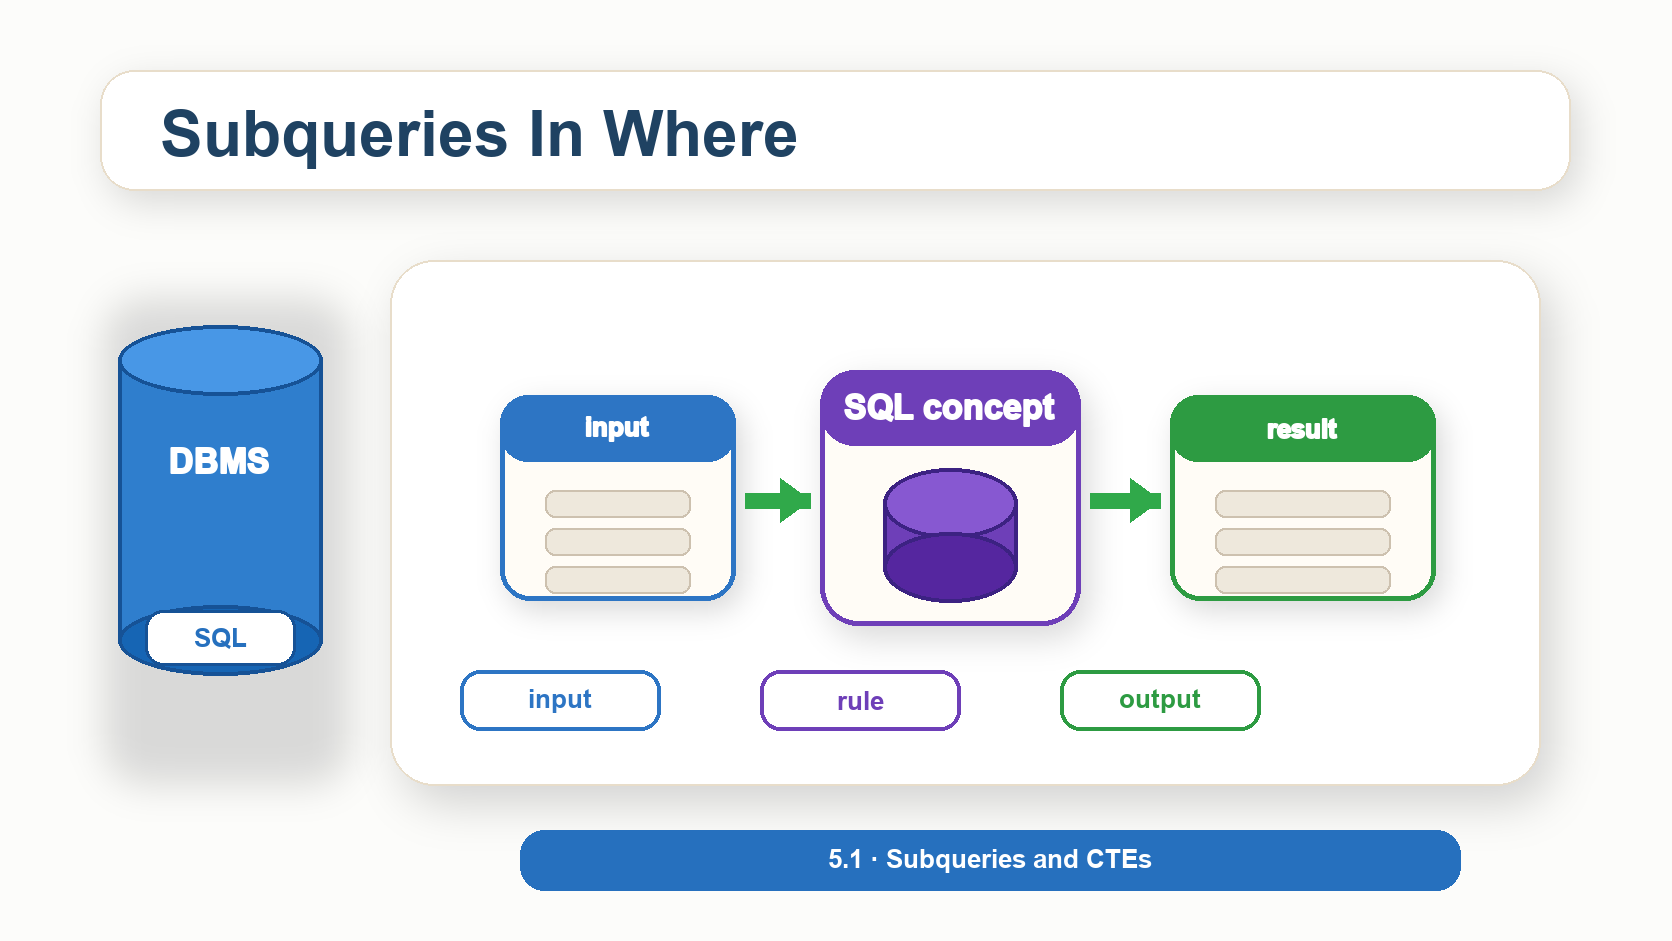
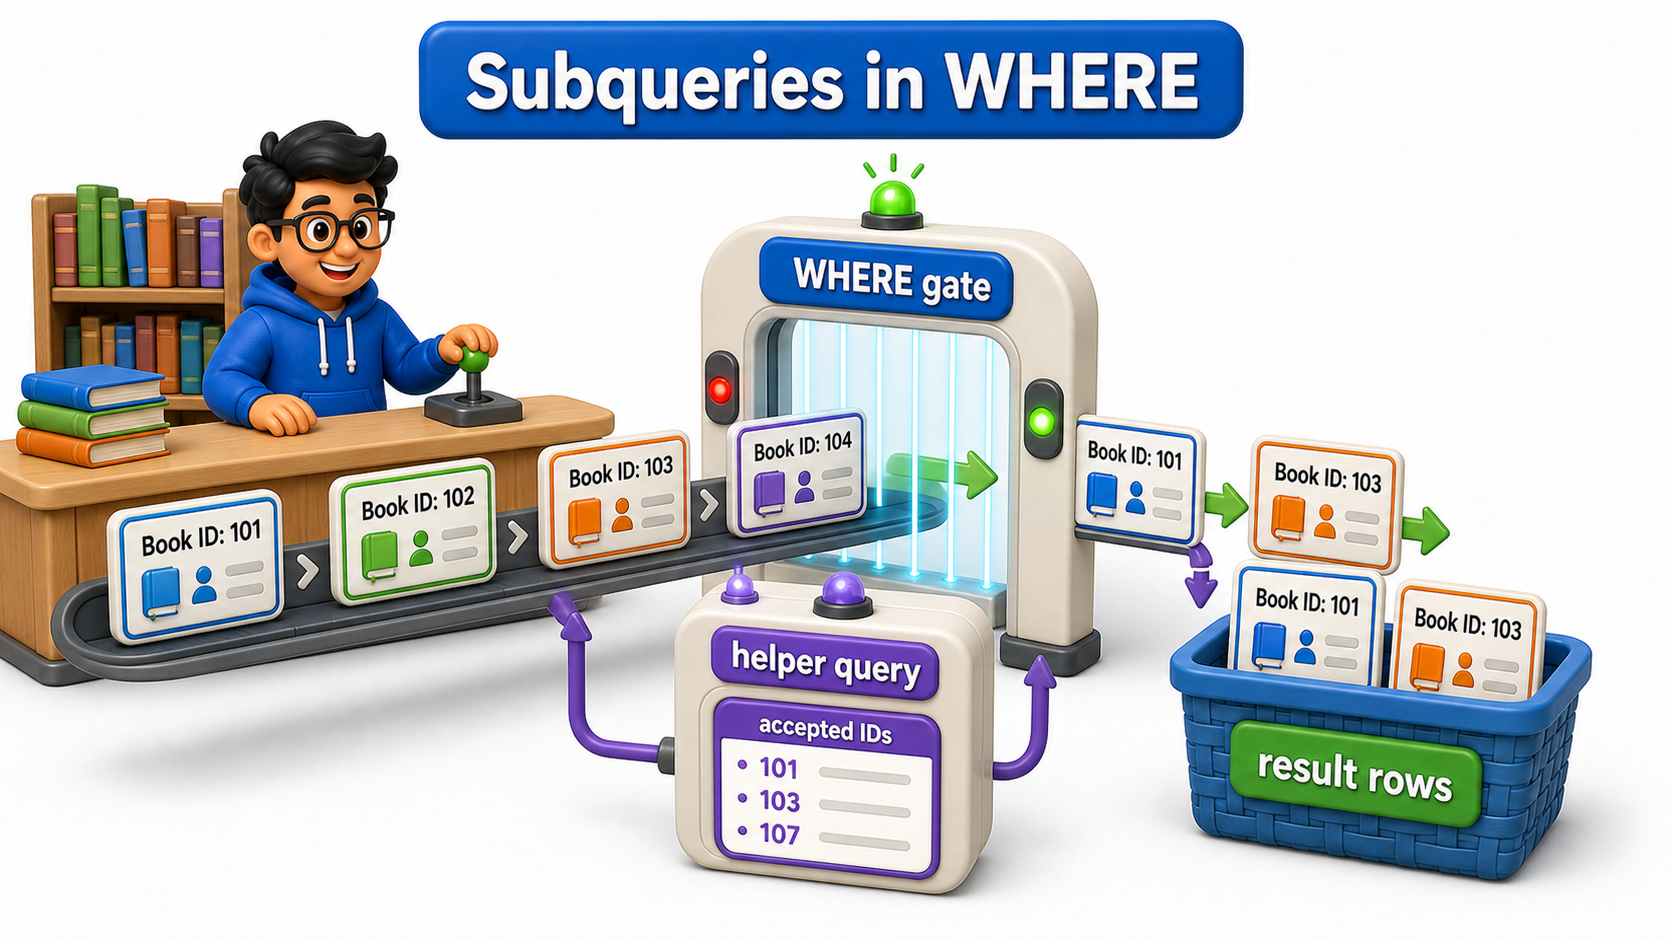
Replace unit 5.1 intro placeholders with actual 3D visuals

diff --git a/content/DBMS_Upload_Chapters/5.1 - Subqueries and CTEs/06_recursive_ctes_querying_hierarchies_and_graphs.md b/content/DBMS_Upload_Chapters/5.1 - Subqueries and CTEs/06_recursive_ctes_querying_hierarchies_and_graphs.md
@@ -8,7 +8,7 @@ A **`recursive CTE`** solves this by repeating its own logic against its own gro
 
 **Definition:** A `recursive CTE` repeats its own logic against a growing result set until no new rows appear, which is exactly the tool needed for hierarchies and graphs whose depth is not known in advance, whether that means walking up an org chart to find every manager above a person or walking down to find every report beneath one.
 
-![Intro visual for recursive ctes querying hierarchies and graphs](https://s3.ap-south-1.amazonaws.com/static.bytexl.app/uploads/44sjn9mdv/content/images/06_intro_recursive_ctes_querying_hierarchies_and_graphs_clean_e3c87a9b.png)
+![Intro visual for recursive ctes querying hierarchies and graphs](https://s3.ap-south-1.amazonaws.com/static.bytexl.app/uploads/44sjn9mdv/content/images/06_intro_recursive_ctes_querying_hierarchies_and_graphs_actual3d_9dadf035.png)
 
 ## The Shape of the Hierarchy
 

diff --git a/content/DBMS_Upload_Chapters/5.1 - Subqueries and CTEs/04_correlated_subqueries.md b/content/DBMS_Upload_Chapters/5.1 - Subqueries and CTEs/04_correlated_subqueries.md
@@ -8,7 +8,7 @@ A subquery that reaches back into the outer query's current row like this is cal
 
 **Definition:** A `correlated subquery` reaches into the outer query's current row, recalculating its result for every row rather than running once and reusing a fixed answer, which makes it the right tool whenever a comparison needs to be relative to each row's own context, such as its own department or its own manager.
 
-![Intro visual for correlated subqueries](https://s3.ap-south-1.amazonaws.com/static.bytexl.app/uploads/44sjn9mdv/content/images/04_intro_correlated_subqueries_clean_f48f7e0f.png)
+![Intro visual for correlated subqueries](https://s3.ap-south-1.amazonaws.com/static.bytexl.app/uploads/44sjn9mdv/content/images/04_intro_correlated_subqueries_actual3d_91c1ff9d.png)
 
 ## A Subquery That References the Outer Row
 

diff --git a/content/DBMS_Upload_Chapters/5.1 - Subqueries and CTEs/05_common_table_expressions.md b/content/DBMS_Upload_Chapters/5.1 - Subqueries and CTEs/05_common_table_expressions.md
@@ -6,7 +6,7 @@ SQL offers a cleaner way to write exactly the same logic: a **`Common Table Expr
 
 **Definition:** A CTE, written with `WITH`, names an intermediate query result up front so the rest of a statement can read top to bottom instead of inside out, and several CTEs can be chained together, each one building on the last, without losing clarity as the logic grows more layered.
 
-![Intro visual for common table expressions](https://s3.ap-south-1.amazonaws.com/static.bytexl.app/uploads/44sjn9mdv/content/images/05_intro_common_table_expressions_clean_752f6b5e.png)
+![Intro visual for common table expressions](https://s3.ap-south-1.amazonaws.com/static.bytexl.app/uploads/44sjn9mdv/content/images/05_intro_common_table_expressions_actual3d_9defc187.png)
 
 ## Rewriting a Subquery as a CTE
 

diff --git a/content/DBMS_Upload_Chapters/5.1 - Subqueries and CTEs/02_subqueries_in_where.md b/content/DBMS_Upload_Chapters/5.1 - Subqueries and CTEs/02_subqueries_in_where.md
@@ -8,7 +8,7 @@ SQL provides different operators, **`IN`**, **`ANY`**, and **`ALL`**, specifical
 
 **Definition:** A subquery inside `WHERE` can compare against a single value directly, or against a whole list of values using `IN`, `NOT IN`, `ANY`, or `ALL`, each suited to a different shape of question, with `NOT IN` needing an explicit guard against `NULL` that `NOT EXISTS` does not.
 
-![Intro visual for subqueries in where](https://s3.ap-south-1.amazonaws.com/static.bytexl.app/uploads/44sjn9mdv/content/images/02_intro_subqueries_in_where_clean_8cb67b18.png)
+![Intro visual for subqueries in where](https://s3.ap-south-1.amazonaws.com/static.bytexl.app/uploads/44sjn9mdv/content/images/02_intro_subqueries_in_where_actual3d_b4b07b9e.png)
 
 ## A Subquery Returning Exactly One Value
 

diff --git a/content/DBMS_Upload_Chapters/5.1 - Subqueries and CTEs/03_subqueries_in_from.md b/content/DBMS_Upload_Chapters/5.1 - Subqueries and CTEs/03_subqueries_in_from.md
@@ -6,7 +6,7 @@ A subquery does not have to sit inside `WHERE` producing a single value or a lis
 
 **Definition:** A subquery in `FROM`, or derived table, lets a query treat an intermediate result, especially a grouped or aggregated one, as if it were a real table, complete with the ability to filter, join, or select from it further.
 
-![Intro visual for subqueries in from](https://s3.ap-south-1.amazonaws.com/static.bytexl.app/uploads/44sjn9mdv/content/images/03_intro_subqueries_in_from_clean_126d3ca3.png)
+![Intro visual for subqueries in from](https://s3.ap-south-1.amazonaws.com/static.bytexl.app/uploads/44sjn9mdv/content/images/03_intro_subqueries_in_from_actual3d_2de484e5.png)
 
 ## Treating a Query's Result as a Table
 

diff --git a/content/DBMS/5 - Advanced Querying with SQL/5.1 - Subqueries and CTEs/06_recursive_ctes_querying_hierarchies_and_graphs.md b/content/DBMS/5 - Advanced Querying with SQL/5.1 - Subqueries and CTEs/06_recursive_ctes_querying_hierarchies_and_graphs.md
@@ -22,7 +22,7 @@ ON-IMAGE TEXT: show a short bold title "Recursive Ctes Querying Hierarchies And 
 GOAL: make the opening idea instantly clear and engaging while matching the existing DBMS reading-material image standards.
 -->
 
-![Intro visual for recursive ctes querying hierarchies and graphs](https://s3.ap-south-1.amazonaws.com/static.bytexl.app/uploads/44sjn9mdv/content/images/06_intro_recursive_ctes_querying_hierarchies_and_graphs_clean_e3c87a9b.png)
+![Intro visual for recursive ctes querying hierarchies and graphs](https://s3.ap-south-1.amazonaws.com/static.bytexl.app/uploads/44sjn9mdv/content/images/06_intro_recursive_ctes_querying_hierarchies_and_graphs_actual3d_9dadf035.png)
 
 ## The Shape of the Hierarchy
 

diff --git a/content/DBMS_Upload_Chapters/5.1 - Subqueries and CTEs/01_what_is_a_subquery.md b/content/DBMS_Upload_Chapters/5.1 - Subqueries and CTEs/01_what_is_a_subquery.md
@@ -6,7 +6,7 @@ He cannot type `WHERE salary > AVG(salary)` directly, since `aggregate functions
 
 **Definition:** A subquery is an ordinary `SELECT` statement nested inside another query, computed first and substituted in as a value, letting a query depend on a number, a list, or a table that only exists once that inner query has run.
 
-![Intro visual for what is a subquery](https://s3.ap-south-1.amazonaws.com/static.bytexl.app/uploads/44sjn9mdv/content/images/01_intro_what_is_a_subquery_clean_113c90b0.png)
+![Intro visual for what is a subquery](https://s3.ap-south-1.amazonaws.com/static.bytexl.app/uploads/44sjn9mdv/content/images/01_intro_what_is_a_subquery_actual3d_791b0571.png)
 
 ## A Query Inside a Query
 

diff --git a/content/DBMS/5 - Advanced Querying with SQL/5.1 - Subqueries and CTEs/05_common_table_expressions.md b/content/DBMS/5 - Advanced Querying with SQL/5.1 - Subqueries and CTEs/05_common_table_expressions.md
@@ -20,7 +20,7 @@ ON-IMAGE TEXT: show a short bold title "Common Table Expressions" plus only thes
 GOAL: make the opening idea instantly clear and engaging while matching the existing DBMS reading-material image standards.
 -->
 
-![Intro visual for common table expressions](https://s3.ap-south-1.amazonaws.com/static.bytexl.app/uploads/44sjn9mdv/content/images/05_intro_common_table_expressions_clean_752f6b5e.png)
+![Intro visual for common table expressions](https://s3.ap-south-1.amazonaws.com/static.bytexl.app/uploads/44sjn9mdv/content/images/05_intro_common_table_expressions_actual3d_9defc187.png)
 
 ## Rewriting a Subquery as a CTE
 

diff --git a/content/DBMS/5 - Advanced Querying with SQL/5.1 - Subqueries and CTEs/04_correlated_subqueries.md b/content/DBMS/5 - Advanced Querying with SQL/5.1 - Subqueries and CTEs/04_correlated_subqueries.md
@@ -22,7 +22,7 @@ ON-IMAGE TEXT: show a short bold title "Correlated Subqueries" plus only these f
 GOAL: make the opening idea instantly clear and engaging while matching the existing DBMS reading-material image standards.
 -->
 
-![Intro visual for correlated subqueries](https://s3.ap-south-1.amazonaws.com/static.bytexl.app/uploads/44sjn9mdv/content/images/04_intro_correlated_subqueries_clean_f48f7e0f.png)
+![Intro visual for correlated subqueries](https://s3.ap-south-1.amazonaws.com/static.bytexl.app/uploads/44sjn9mdv/content/images/04_intro_correlated_subqueries_actual3d_91c1ff9d.png)
 
 ## A Subquery That References the Outer Row
 

diff --git a/content/DBMS/5 - Advanced Querying with SQL/5.1 - Subqueries and CTEs/02_subqueries_in_where.md b/content/DBMS/5 - Advanced Querying with SQL/5.1 - Subqueries and CTEs/02_subqueries_in_where.md
@@ -22,7 +22,7 @@ ON-IMAGE TEXT: show a short bold title "Subqueries In Where" plus only these few
 GOAL: make the opening idea instantly clear and engaging while matching the existing DBMS reading-material image standards.
 -->
 
-![Intro visual for subqueries in where](https://s3.ap-south-1.amazonaws.com/static.bytexl.app/uploads/44sjn9mdv/content/images/02_intro_subqueries_in_where_clean_8cb67b18.png)
+![Intro visual for subqueries in where](https://s3.ap-south-1.amazonaws.com/static.bytexl.app/uploads/44sjn9mdv/content/images/02_intro_subqueries_in_where_actual3d_b4b07b9e.png)
 
 ## A Subquery Returning Exactly One Value
 

diff --git a/content/DBMS/5 - Advanced Querying with SQL/5.1 - Subqueries and CTEs/03_subqueries_in_from.md b/content/DBMS/5 - Advanced Querying with SQL/5.1 - Subqueries and CTEs/03_subqueries_in_from.md
@@ -20,7 +20,7 @@ ON-IMAGE TEXT: show a short bold title "Subqueries In From" plus only these few 
 GOAL: make the opening idea instantly clear and engaging while matching the existing DBMS reading-material image standards.
 -->
 
-![Intro visual for subqueries in from](https://s3.ap-south-1.amazonaws.com/static.bytexl.app/uploads/44sjn9mdv/content/images/03_intro_subqueries_in_from_clean_126d3ca3.png)
+![Intro visual for subqueries in from](https://s3.ap-south-1.amazonaws.com/static.bytexl.app/uploads/44sjn9mdv/content/images/03_intro_subqueries_in_from_actual3d_2de484e5.png)
 
 ## Treating a Query's Result as a Table
 

diff --git a/content/DBMS/5 - Advanced Querying with SQL/5.1 - Subqueries and CTEs/01_what_is_a_subquery.md b/content/DBMS/5 - Advanced Querying with SQL/5.1 - Subqueries and CTEs/01_what_is_a_subquery.md
@@ -20,7 +20,7 @@ ON-IMAGE TEXT: show a short bold title "What Is A Subquery" plus only these few 
 GOAL: make the opening idea instantly clear and engaging while matching the existing DBMS reading-material image standards.
 -->
 
-![Intro visual for what is a subquery](https://s3.ap-south-1.amazonaws.com/static.bytexl.app/uploads/44sjn9mdv/content/images/01_intro_what_is_a_subquery_clean_113c90b0.png)
+![Intro visual for what is a subquery](https://s3.ap-south-1.amazonaws.com/static.bytexl.app/uploads/44sjn9mdv/content/images/01_intro_what_is_a_subquery_actual3d_791b0571.png)
 
 ## A Query Inside a Query
 
